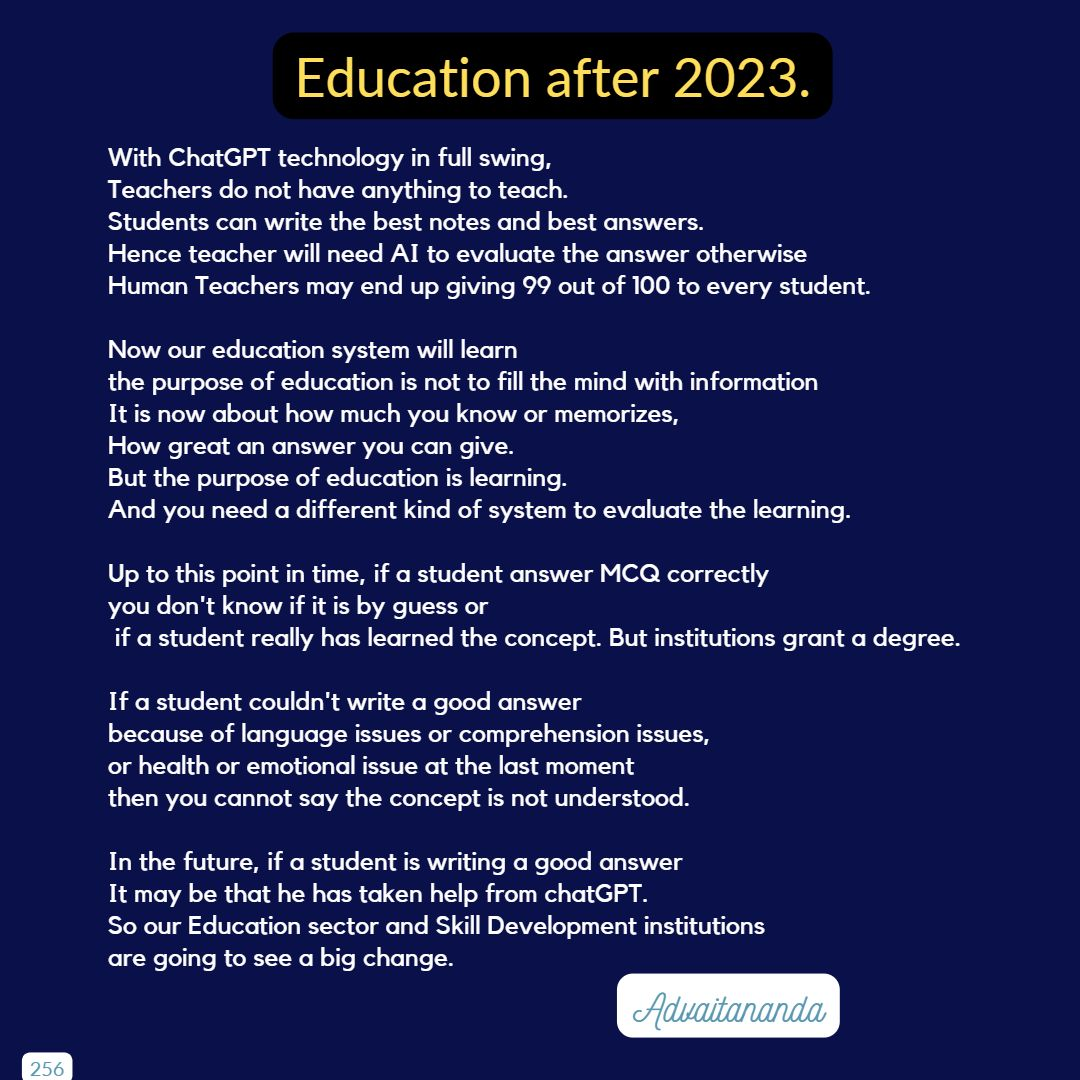
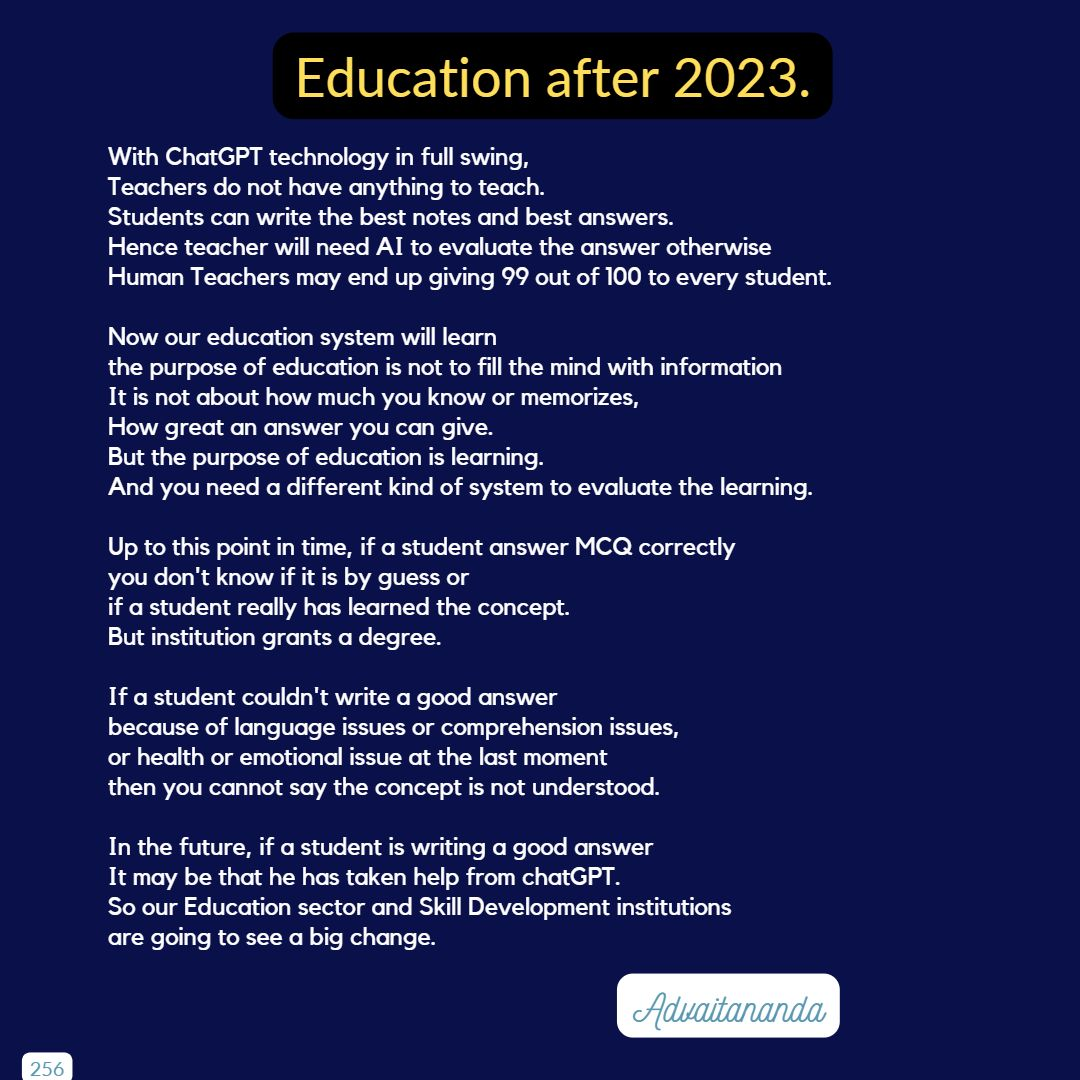
updated earlier spell mistakes

Changed region(s): [[0.0917, 0.3056, 0.8861, 0.6111], [0.0917, 0.6417, 0.7028, 0.9167], [0.0917, 0.1222, 0.7944, 0.275]]

diff --git a/_wiablog/2023-01-16-Continuum-of-life.md b/_wiablog/2023-01-16-Continuum-of-life.md
@@ -39,7 +39,8 @@ Put the highest amount of life items on top
 and lower life items below that,     
 like you put numbers in decreasing order.     
     
-You will be surprised if you meet 100 people they all will sort things differently.     
+You will be surprised if you meet 100 people 
+they all will sort things differently.     
 Do not argue or debate or try to prove.      
 Do not bring your ethics or religious values in front to sort this list.     
 For the time being, avoid adding new items     
@@ -47,7 +48,7 @@ or contesting why a particular item is on the list.
 Keeping some categories in mind this list is created.    
     
 Space, air, fire, water, earth, medicine,     
-plants, bonsai tree, Banyan tree, fungi,     
+plants, bonsai tree, banyan tree, fungi,     
 algae, virus, bacteria, sand, mud, stone,     
 sesame seed, mango seed, mango,     
 cut hair or nails, snake, spider, ant, fly,     
@@ -74,7 +75,7 @@ and mystery around.
     
 If not then you believe in a philosophy that do not think so much,     
 life is already messy, therefore if we think more     
-there will create some more confusion.     
+that will create some more confusion.     
 Therefore, eat what you like, and behave the way it suits you     
 or what is suitable as per the law, make money,     
 enjoy life, thinking doesn't solve any problem,     
@@ -87,7 +88,8 @@ living like a bird or cow or tree of a forest.
 They exist and live with little thinking.    
     
 O Pratibimba, life in existence is not binary,    
-It is in the continuum. So you cannot say this is a living being and that is not.    
+It is in the continuum. 
+So you cannot say this is a living being and that is not.    
 You can say this is more living and another is less.    
 Thus, it does not matter how busy you are and how much you work,    
 when you are working like a machine then you lesser life    

diff --git a/_wiablog/2023-01-15-Yours-Value-System-and-Contradictions.md b/_wiablog/2023-01-15-Yours-Value-System-and-Contradictions.md
@@ -59,7 +59,10 @@ they push every day of life to another day.
     
 O Chaitnya, what you think?Are parents of the 21st century    
  believe in all these values of the old centuries?     
-Are they interested in their Moksha or at least in their children’s Moksha?    
-    
-Hari Om Tat Sat    
+Are they interested in their Moksha or 
+at least in their children’s Moksha?    
+Or because of social pressure, they want their children 
+become copycats of so-called successful children of their relatives or neighbor     
+
+Hari Om Tat Sat
 Yours Truly Hari

diff --git a/_quotations/quotation256.md b/_quotations/quotation256.md
@@ -1,7 +1,7 @@
 ---
 mathjax: true
 id: 9256
-title: 'Quotation 255'
+title: 'Quotation 256'
 date: 2023-01-16
 permalink: '/quotations/Education-after-2023'
 tags: [WIA Quotations] 
